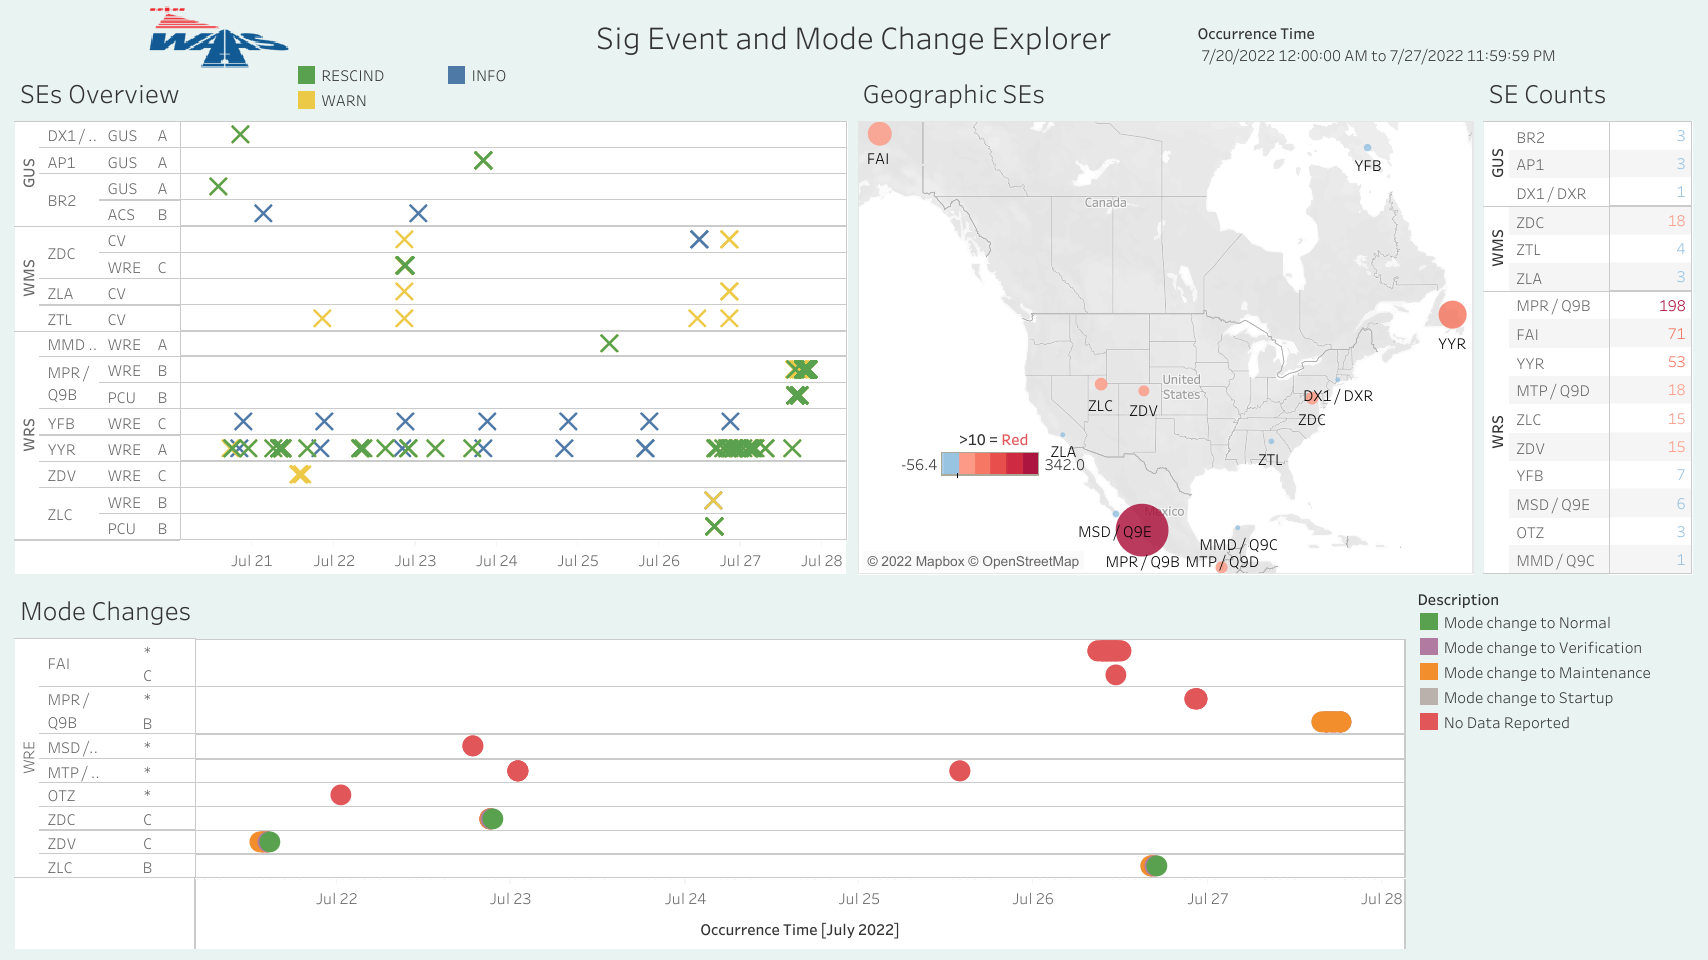
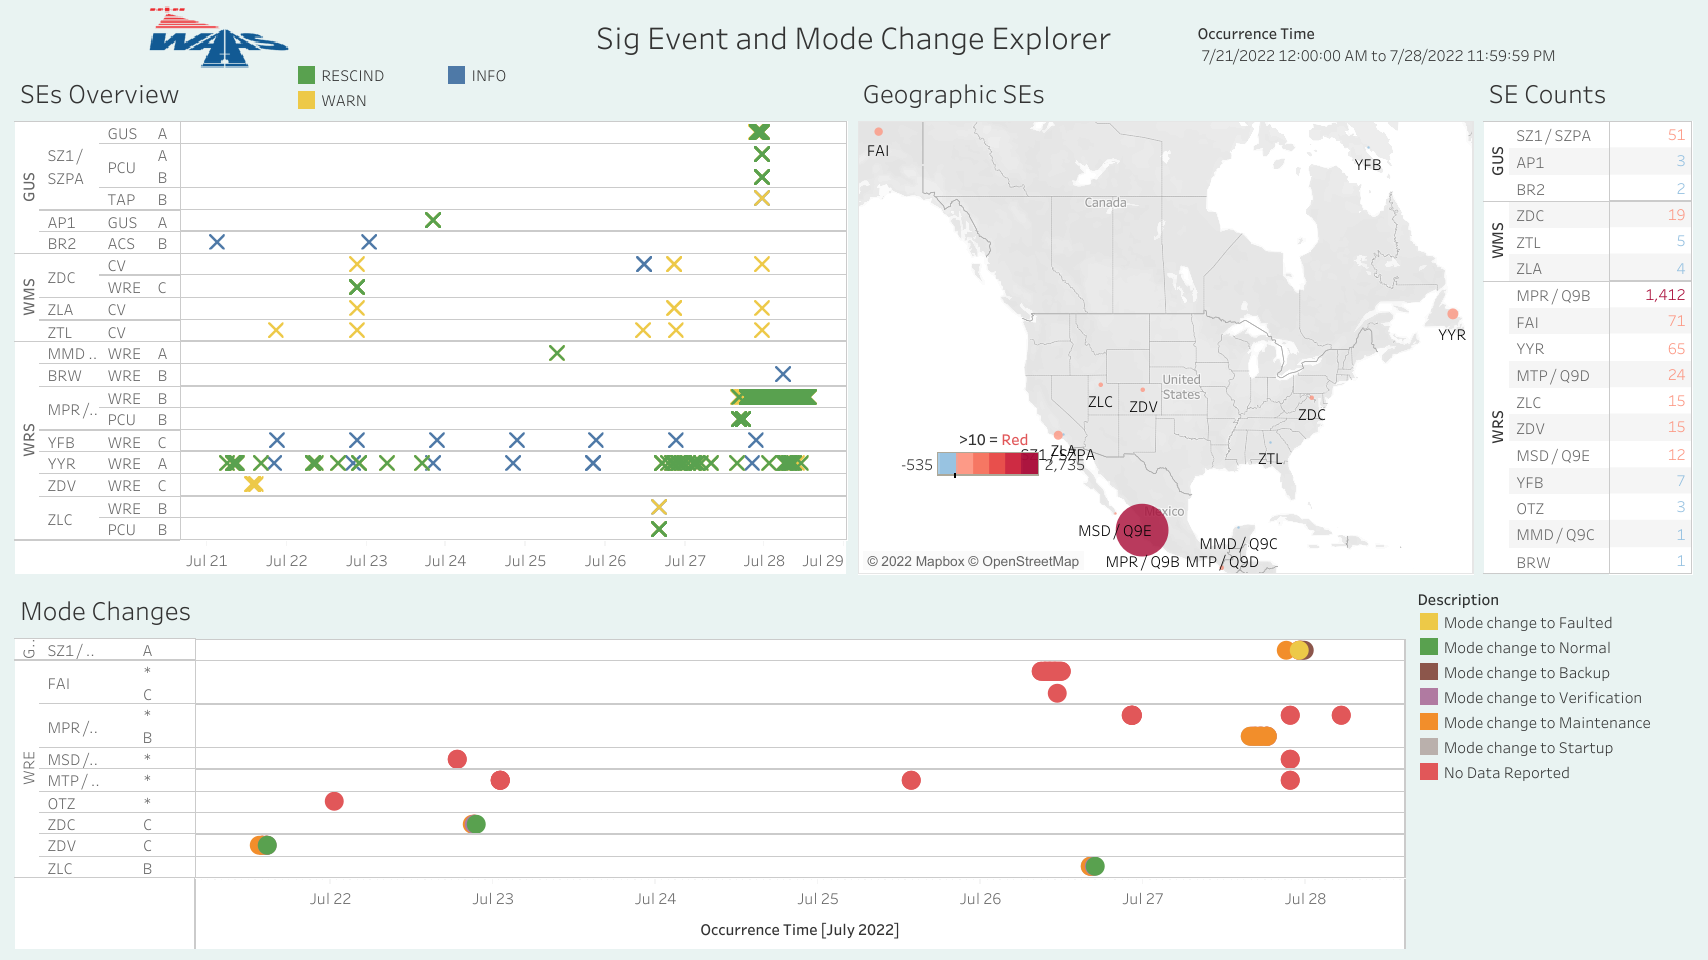
updated graphic with SZ1 maintenance work included

diff --git a/sysmon/index.html b/sysmon/index.html
@@ -46,6 +46,12 @@
                     Standard.
                   </p>
                 </div>
+                <div class="list-group-item">
+                  <h4 class="mb-0">7/27 - SZ1 Down for Maintenance</h4>
+                  <p>Raytheon request a 2 hour maintenance window on 7/27 at 2100Z for Santa Paula/SZ1 to do follow up
+                    measurements on the KPA units.
+                  </p>
+                </div>
                 <div class="list-group-item list-group-item-warning">
                   <h4 class="mb-0">7/12-7/27 - MPR WRE-B Processor Replaced / Rebaselined</h4>
                   <p class="mb-0 opacity-75">After MPR WRE-B was successfully installed and rebaselined on
